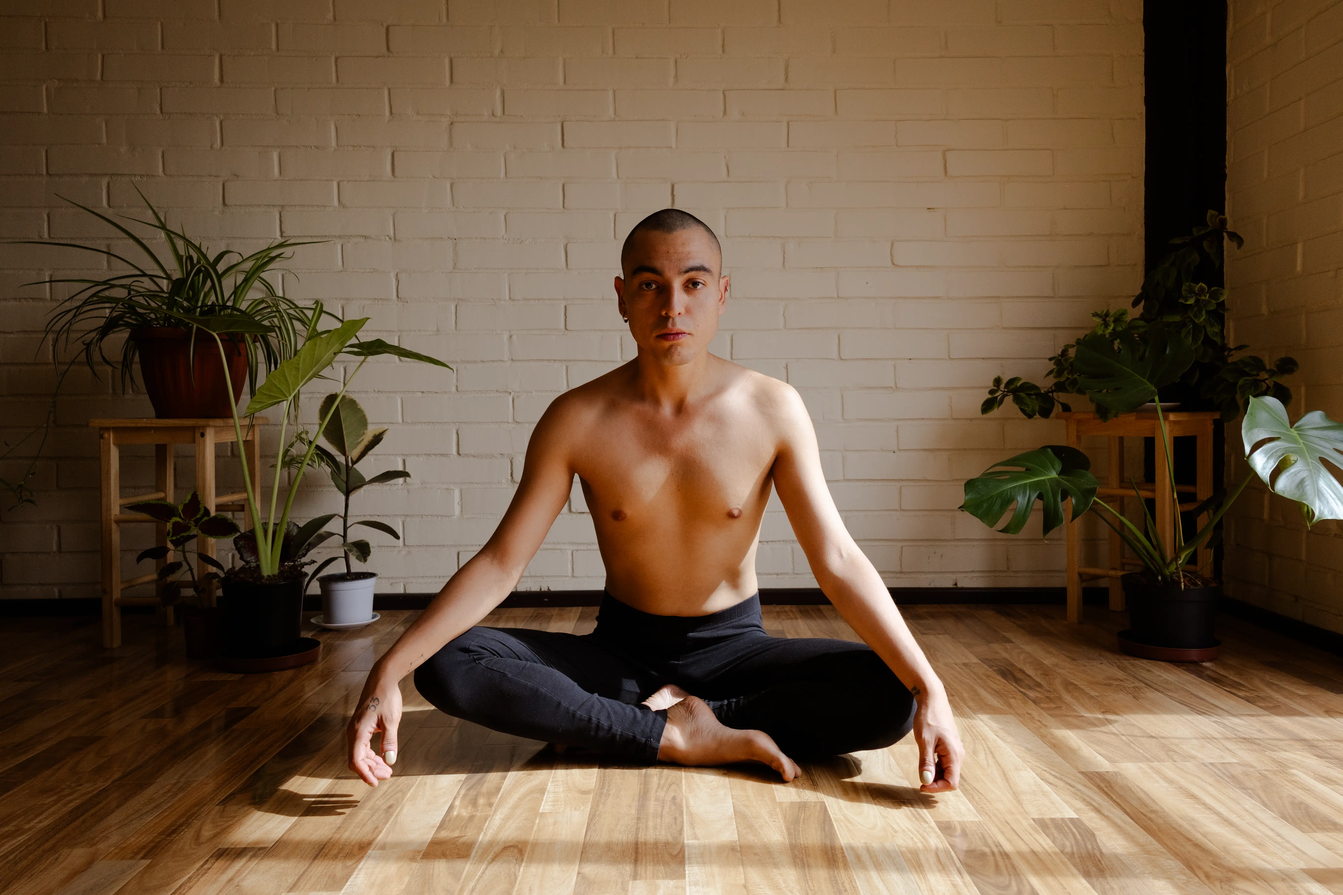
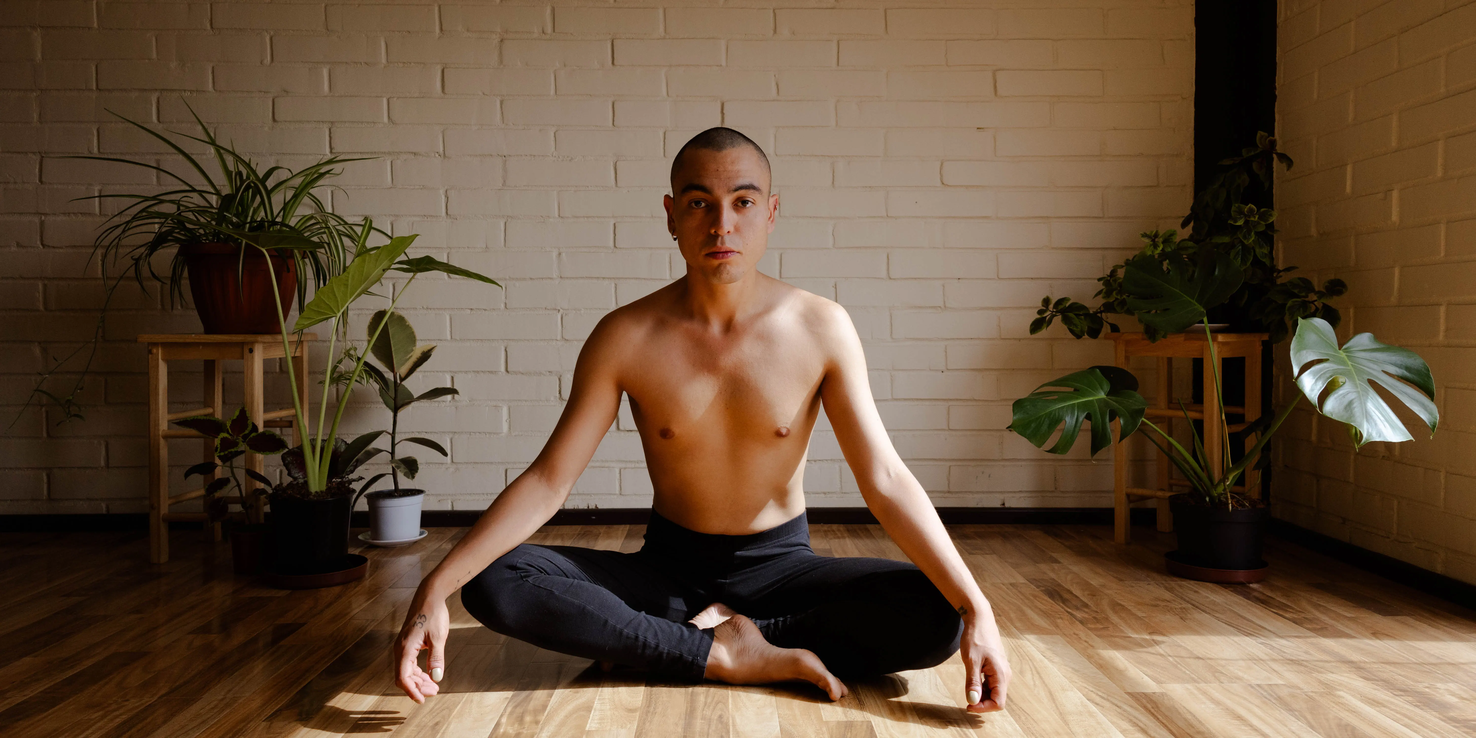
change photo into about and init page components

diff --git a/src/pages/init.jsx b/src/pages/init.jsx
@@ -19,7 +19,7 @@ const InitPage = () => {
     }, [controls]);
 
     return (
-        <div className="flex flex-col items-center justify-center h-screen  mt-0">
+        <div className="flex flex-col items-center justify-center h-screen mt-14">
             <motion.h1
                 className={lora.className}
                 style={{
@@ -78,7 +78,7 @@ const InitPage = () => {
             </motion.p>
             
             <motion.img
-                className="w-auto h-auto mb-4 sm:w-96 md:w-1/2 lg:w-1/3 rounded-lg"
+                className="w-auto h-auto mb-4 sm:w-96 md:w-1/2 lg:w-1/2 rounded-lg"
                 src="/portada.webp"
                 alt="Antonio Emil Muñoz"
                 initial={{ y: -100, opacity: 0 }}

diff --git a/src/pages/about.jsx b/src/pages/about.jsx
@@ -22,7 +22,7 @@ const AboutPage = () => {
     <div className="p-8 rounded-lg flex flex-col lg:flex-row lg:items-center">
       <motion.img
         ref={ref}
-        src="portada.webp"
+        src="aboutme.webp"
         alt="Antonio Muñoz"
         className="w-80 h-96 rounded-lg lg:mr-8 lg:flex-shrink-0 mx-auto"
         initial={{ opacity: 0, y: 50 }}
